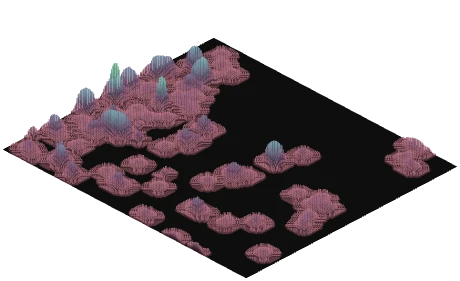
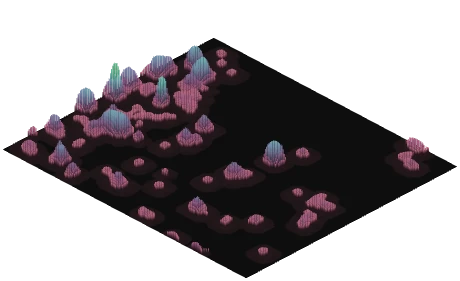
Cruce de capas: colores un poco mas vivos (72 %), placa de los indices oscura donde el valor es bajo y sin agujas por debajo del 12 % (EPO sin base verde)

Changed region(s): [[0.0, 0.1423, 0.7609, 0.9395], [0.8217, 0.484, 0.9435, 0.6548], [0.4261, 0.8826, 0.4565, 0.911]]

diff --git a/cruces/index.html b/cruces/index.html
@@ -263,17 +263,18 @@ async function generarPicos(){
     x.drawImage(hi,0,0);const hd=x.getImageData(0,0,w,h).data; x.clearRect(0,0,w,h);x.drawImage(ci,0,0);const cd=x.getImageData(0,0,w,h).data;
     const pc=document.createElement('canvas');pc.width=w;pc.height=h;const px=pc.getContext('2d'),pim=px.createImageData(w,h);
     let r=0,g=0,b=0,k=0;
-    // colores apagados como el referente: se mezcla cada color con su gris (55 % de saturación)
-    for(let q=0;q<w*h*4;q+=4){ const Y=.3*cd[q]+.59*cd[q+1]+.11*cd[q+2];
-      for(let j=0;j<3;j++){ cd[q+j]=Y+(cd[q+j]-Y)*.55; pim.data[q+j]=Math.min(255,14+cd[q+j]*.4); } pim.data[q+3]=255; if(hd[q]>200){r+=cd[q];g+=cd[q+1];b+=cd[q+2];k++;} }
+    // colores algo apagados como el referente (72 % de saturación); en los índices la placa se oscurece donde el valor es bajo
+    const esIndice=id.startsWith('i_');
+    for(let q=0;q<w*h*4;q+=4){ const Y=.3*cd[q]+.59*cd[q+1]+.11*cd[q+2], luz=esIndice?.12+.88*Math.pow(hd[q]/255,.8):1;
+      for(let j=0;j<3;j++){ cd[q+j]=Y+(cd[q+j]-Y)*.72; pim.data[q+j]=Math.min(255,14+cd[q+j]*.42*luz); } pim.data[q+3]=255; if(hd[q]>200){r+=cd[q];g+=cd[q+1];b+=cd[q+2];k++;} }
     px.putImageData(pim,0,0);
-    return {w,h,hd,cd,plate:pc,firma:k?'#'+[r,g,b].map(v=>Math.round(v/k).toString(16).padStart(2,'0')).join(''):'#9aa0a8'};
+    return {w,h,hd,cd,plate:pc,min:esIndice?.12:.035,firma:k?'#'+[r,g,b].map(v=>Math.round(v/k).toString(16).padStart(2,'0')).join(''):'#9aa0a8'};
   }
   function grupoCapa(L,Hh){
     const g=new THREE.Group(), tex=new THREE.CanvasTexture(L.plate); tex.anisotropy=renderer.capabilities.getMaxAnisotropy();
     const pl=new THREE.Mesh(new THREE.PlaneGeometry(2*W,2*H),new THREE.MeshBasicMaterial({map:tex,side:THREE.DoubleSide})); pl.rotation.x=-Math.PI/2; g.add(pl);
     const P=[],C=[];
-    for(let r=0;r<L.h;r++)for(let c=0;c<L.w;c++){ const k=(r*L.w+c)*4, v=L.hd[k]/255; if(v<0.035)continue;
+    for(let r=0;r<L.h;r++)for(let c=0;c<L.w;c++){ const k=(r*L.w+c)*4, v=L.hd[k]/255; if(v<L.min)continue;
       const x=-W+(c+.5)/L.w*2*W, z=-H+(r+.5)/L.h*2*H, R=L.cd[k]/255,G=L.cd[k+1]/255,B=L.cd[k+2]/255;
       P.push(x,0.3,z,x,0.3+v*Hh,z); C.push(R*.16,G*.16,B*.16,Math.min(1,R*.82+.16),Math.min(1,G*.82+.16),Math.min(1,B*.82+.16)); }   // punta clara, raíz oscura
     const ng=new THREE.BufferGeometry(); ng.setAttribute('position',new THREE.Float32BufferAttribute(P,3)); ng.setAttribute('color',new THREE.Float32BufferAttribute(C,3));
@@ -296,7 +297,7 @@ async function generarPicos(){
   for(const k in meta){ const r=meta[k].ramp; let best=r[r.length-1],bs=-1;
     for(const h of r){const c=[1,3,5].map(i=>parseInt(h.slice(i,i+2),16)/255),mx=Math.max(...c),mn=Math.min(...c); if((mx-mn)*mx>bs){bs=(mx-mn)*mx;best=h;}}
     const c=[1,3,5].map(i=>parseInt(best.slice(i,i+2),16)), Y=.3*c[0]+.59*c[1]+.11*c[2];
-    firmas[k]='#'+c.map(v=>Math.round(Y+(v-Y)*.72).toString(16).padStart(2,'0')).join(''); }
+    firmas[k]='#'+c.map(v=>Math.round(Y+(v-Y)*.85).toString(16).padStart(2,'0')).join(''); }
   const lote=[...BASE.map(b=>[b.id,b.id,46,560]),...IDX.map(d=>[d.id,'i_'+d.id.toLowerCase(),62,CRU.includes(d)?720:460])];
   for(const [k,src,nh,px] of lote){ const L=await cargarCapa(src); if(esBase(k))firmas[k]=L.firma;
     const s=new THREE.Scene(); s.add(grupoCapa(L,nh)); fotos[k]=foto(s,[...esquinas(0),...esquinas(nh)],px); liberar(s); }
